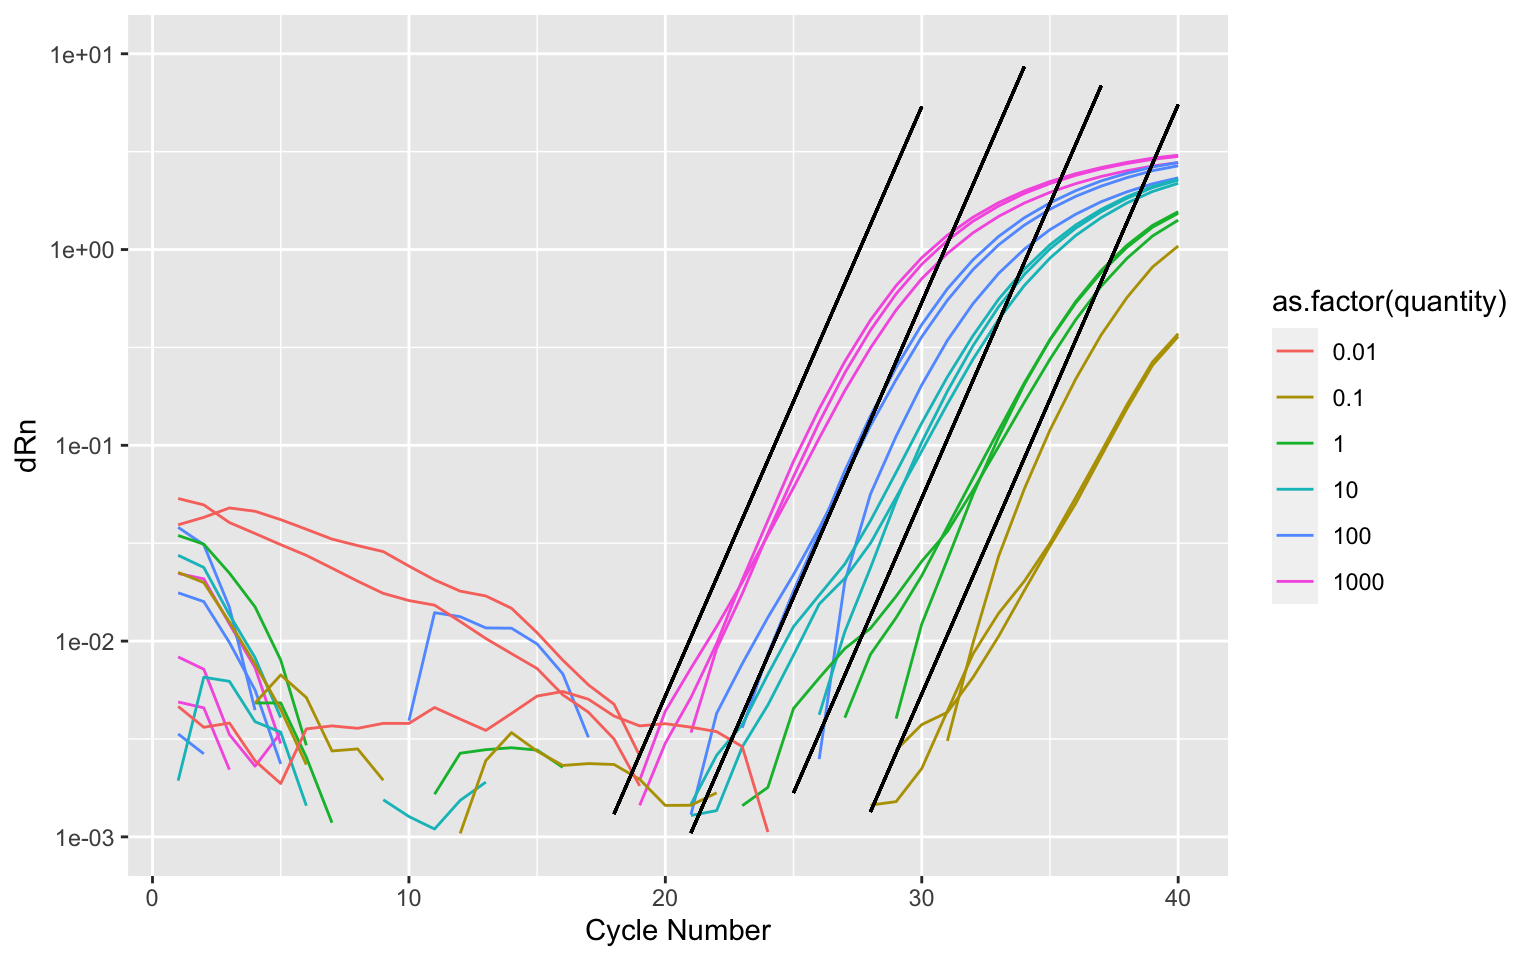
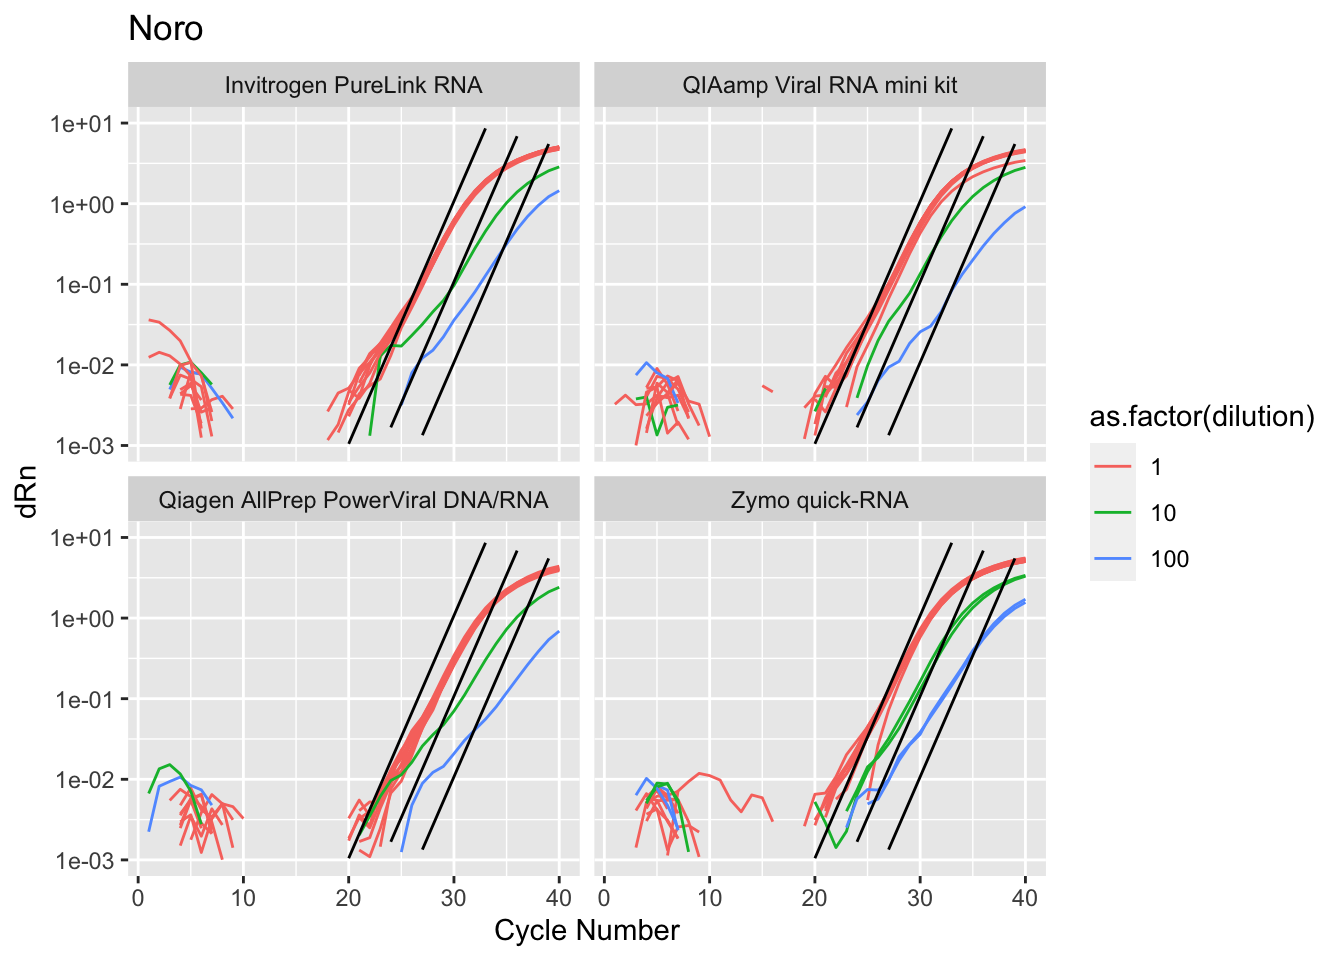
Add rulers to dilution series

Changed region(s): [[0.0, 0.0, 0.9688, 1.0], [0.1562, 0.125, 0.1875, 0.2188], [0.1562, 0.2812, 0.1875, 0.3125]]

diff --git a/docs/notebooks/2023-09-28-qpcr_qc.html b/docs/notebooks/2023-09-28-qpcr_qc.html
@@ -466,31 +466,36 @@ $ FP_sampleID     &lt;lgl&gt; NA, NA, NA, NA, NA, NA, NA, NA, NA, NA, NA, NA, NA
 <h3 class="anchored" data-anchor-id="standard-ruler">Standard ruler</h3>
 <p>Maximum efficiency means doubling every cycle. The standard curve points here represent 10x dilutions. We can compare the amplification curves for the standard curve samples against a standard ruler: a set of idealized curves <span class="math inline">\(y(c) = y_0 2^c\)</span> with <span class="math inline">\(y_0\)</span> spaced <span class="math inline">\(10\times\)</span> apart.</p>
 <div class="cell">
-<div class="sourceCode cell-code" id="cb22"><pre class="sourceCode r code-with-copy"><code class="sourceCode r"><span id="cb22-1"><a href="#cb22-1" aria-hidden="true" tabindex="-1"></a>plot_amp_with_ruler <span class="ot">&lt;-</span> <span class="cf">function</span>(target, y0_from) {</span>
-<span id="cb22-2"><a href="#cb22-2" aria-hidden="true" tabindex="-1"></a>  y0 <span class="ot">&lt;-</span> <span class="dv">10</span><span class="sc">^</span><span class="fu">seq</span>(<span class="at">from =</span> y0_from, <span class="at">by =</span> <span class="sc">-</span><span class="dv">1</span>, <span class="at">length.out =</span> <span class="dv">5</span>)</span>
-<span id="cb22-3"><a href="#cb22-3" aria-hidden="true" tabindex="-1"></a>  ruler <span class="ot">&lt;-</span> <span class="fu">crossing</span>(<span class="st">`</span><span class="at">Cycle Number</span><span class="st">`</span> <span class="ot">=</span> amp_data<span class="sc">$</span><span class="st">`</span><span class="at">Cycle Number</span><span class="st">`</span>, <span class="at">y0 =</span> y0) <span class="sc">|&gt;</span></span>
-<span id="cb22-4"><a href="#cb22-4" aria-hidden="true" tabindex="-1"></a>    <span class="fu">mutate</span>(<span class="at">dRn =</span> y0 <span class="sc">*</span> <span class="dv">2</span><span class="sc">^</span><span class="st">`</span><span class="at">Cycle Number</span><span class="st">`</span>)</span>
-<span id="cb22-5"><a href="#cb22-5" aria-hidden="true" tabindex="-1"></a>  amp_data <span class="sc">|&gt;</span></span>
-<span id="cb22-6"><a href="#cb22-6" aria-hidden="true" tabindex="-1"></a>    <span class="fu">filter</span>(<span class="sc">!</span><span class="fu">is.na</span>(quantity), Target <span class="sc">==</span> target) <span class="sc">|&gt;</span></span>
-<span id="cb22-7"><a href="#cb22-7" aria-hidden="true" tabindex="-1"></a>    <span class="fu">ggplot</span>(<span class="at">mapping =</span> <span class="fu">aes</span>(</span>
-<span id="cb22-8"><a href="#cb22-8" aria-hidden="true" tabindex="-1"></a>      <span class="at">x =</span> <span class="st">`</span><span class="at">Cycle Number</span><span class="st">`</span>,</span>
-<span id="cb22-9"><a href="#cb22-9" aria-hidden="true" tabindex="-1"></a>      <span class="at">y =</span> dRn,</span>
-<span id="cb22-10"><a href="#cb22-10" aria-hidden="true" tabindex="-1"></a>    )) <span class="sc">+</span></span>
-<span id="cb22-11"><a href="#cb22-11" aria-hidden="true" tabindex="-1"></a>    <span class="fu">geom_line</span>(<span class="at">mapping =</span> <span class="fu">aes</span>(</span>
-<span id="cb22-12"><a href="#cb22-12" aria-hidden="true" tabindex="-1"></a>      <span class="at">color =</span> <span class="fu">as.factor</span>(quantity),</span>
-<span id="cb22-13"><a href="#cb22-13" aria-hidden="true" tabindex="-1"></a>      <span class="at">group =</span> <span class="fu">interaction</span>(plate, Well),</span>
-<span id="cb22-14"><a href="#cb22-14" aria-hidden="true" tabindex="-1"></a>    )) <span class="sc">+</span></span>
-<span id="cb22-15"><a href="#cb22-15" aria-hidden="true" tabindex="-1"></a>    <span class="fu">geom_line</span>(</span>
-<span id="cb22-16"><a href="#cb22-16" aria-hidden="true" tabindex="-1"></a>      <span class="at">data =</span> ruler,</span>
-<span id="cb22-17"><a href="#cb22-17" aria-hidden="true" tabindex="-1"></a>      <span class="at">mapping =</span> <span class="fu">aes</span>(<span class="at">group =</span> y0),</span>
-<span id="cb22-18"><a href="#cb22-18" aria-hidden="true" tabindex="-1"></a>      <span class="at">color =</span> <span class="st">"black"</span></span>
-<span id="cb22-19"><a href="#cb22-19" aria-hidden="true" tabindex="-1"></a>    ) <span class="sc">+</span></span>
-<span id="cb22-20"><a href="#cb22-20" aria-hidden="true" tabindex="-1"></a>    <span class="fu">scale_y_log10</span>(<span class="at">limits =</span> <span class="fu">c</span>(<span class="fl">1e-3</span>, <span class="fl">1e1</span>)) <span class="sc">+</span></span>
-<span id="cb22-21"><a href="#cb22-21" aria-hidden="true" tabindex="-1"></a>    <span class="fu">labs</span>(<span class="at">title =</span> target)</span>
-<span id="cb22-22"><a href="#cb22-22" aria-hidden="true" tabindex="-1"></a>}</span></code><button title="Copy to Clipboard" class="code-copy-button"><i class="bi"></i></button></pre></div>
+<div class="sourceCode cell-code" id="cb22"><pre class="sourceCode r code-with-copy"><code class="sourceCode r"><span id="cb22-1"><a href="#cb22-1" aria-hidden="true" tabindex="-1"></a>plot_amp <span class="ot">&lt;-</span> <span class="cf">function</span>(data, color) {</span>
+<span id="cb22-2"><a href="#cb22-2" aria-hidden="true" tabindex="-1"></a>  <span class="fu">ggplot</span>(data, <span class="fu">aes</span>(<span class="at">x =</span> <span class="st">`</span><span class="at">Cycle Number</span><span class="st">`</span>, <span class="at">y =</span> dRn)) <span class="sc">+</span></span>
+<span id="cb22-3"><a href="#cb22-3" aria-hidden="true" tabindex="-1"></a>    <span class="fu">geom_line</span>(<span class="at">mapping =</span> <span class="fu">aes</span>(</span>
+<span id="cb22-4"><a href="#cb22-4" aria-hidden="true" tabindex="-1"></a>      <span class="at">color =</span> <span class="fu">as.factor</span>({{ color }}),</span>
+<span id="cb22-5"><a href="#cb22-5" aria-hidden="true" tabindex="-1"></a>      <span class="at">group =</span> <span class="fu">interaction</span>(plate, Well),</span>
+<span id="cb22-6"><a href="#cb22-6" aria-hidden="true" tabindex="-1"></a>    )) <span class="sc">+</span></span>
+<span id="cb22-7"><a href="#cb22-7" aria-hidden="true" tabindex="-1"></a>    <span class="fu">scale_y_log10</span>(<span class="at">limits =</span> <span class="fu">c</span>(<span class="fl">1e-3</span>, <span class="fl">1e1</span>))</span>
+<span id="cb22-8"><a href="#cb22-8" aria-hidden="true" tabindex="-1"></a>}</span>
+<span id="cb22-9"><a href="#cb22-9" aria-hidden="true" tabindex="-1"></a></span>
+<span id="cb22-10"><a href="#cb22-10" aria-hidden="true" tabindex="-1"></a>ruler <span class="ot">&lt;-</span> <span class="cf">function</span>(y0_from, num_rules) {</span>
+<span id="cb22-11"><a href="#cb22-11" aria-hidden="true" tabindex="-1"></a>  y0 <span class="ot">&lt;-</span> <span class="dv">10</span><span class="sc">^</span><span class="fu">seq</span>(<span class="at">from =</span> y0_from, <span class="at">by =</span> <span class="sc">-</span><span class="dv">1</span>, <span class="at">length.out =</span> num_rules)</span>
+<span id="cb22-12"><a href="#cb22-12" aria-hidden="true" tabindex="-1"></a>  rules <span class="ot">&lt;-</span> <span class="fu">crossing</span>(<span class="st">`</span><span class="at">Cycle Number</span><span class="st">`</span> <span class="ot">=</span> amp_data<span class="sc">$</span><span class="st">`</span><span class="at">Cycle Number</span><span class="st">`</span>, <span class="at">y0 =</span> y0) <span class="sc">|&gt;</span></span>
+<span id="cb22-13"><a href="#cb22-13" aria-hidden="true" tabindex="-1"></a>    <span class="fu">mutate</span>(<span class="at">dRn =</span> y0 <span class="sc">*</span> <span class="dv">2</span><span class="sc">^</span><span class="st">`</span><span class="at">Cycle Number</span><span class="st">`</span>)</span>
+<span id="cb22-14"><a href="#cb22-14" aria-hidden="true" tabindex="-1"></a>  <span class="fu">geom_line</span>(</span>
+<span id="cb22-15"><a href="#cb22-15" aria-hidden="true" tabindex="-1"></a>    <span class="at">data =</span> rules,</span>
+<span id="cb22-16"><a href="#cb22-16" aria-hidden="true" tabindex="-1"></a>    <span class="at">mapping =</span> <span class="fu">aes</span>(<span class="at">group =</span> y0),</span>
+<span id="cb22-17"><a href="#cb22-17" aria-hidden="true" tabindex="-1"></a>    <span class="at">color =</span> <span class="st">"black"</span></span>
+<span id="cb22-18"><a href="#cb22-18" aria-hidden="true" tabindex="-1"></a>  )</span>
+<span id="cb22-19"><a href="#cb22-19" aria-hidden="true" tabindex="-1"></a>}</span>
+<span id="cb22-20"><a href="#cb22-20" aria-hidden="true" tabindex="-1"></a></span>
+<span id="cb22-21"><a href="#cb22-21" aria-hidden="true" tabindex="-1"></a>plot_amp_with_ruler <span class="ot">&lt;-</span> <span class="cf">function</span>(target, y0_from, num_rules) {</span>
+<span id="cb22-22"><a href="#cb22-22" aria-hidden="true" tabindex="-1"></a>  amp_data <span class="sc">|&gt;</span></span>
+<span id="cb22-23"><a href="#cb22-23" aria-hidden="true" tabindex="-1"></a>    <span class="fu">filter</span>(<span class="sc">!</span><span class="fu">is.na</span>(quantity), Target <span class="sc">==</span> target) <span class="sc">|&gt;</span></span>
+<span id="cb22-24"><a href="#cb22-24" aria-hidden="true" tabindex="-1"></a>    <span class="fu">plot_amp</span>(quantity) <span class="sc">+</span></span>
+<span id="cb22-25"><a href="#cb22-25" aria-hidden="true" tabindex="-1"></a>    <span class="fu">ruler</span>(y0_from, num_rules) <span class="sc">+</span></span>
+<span id="cb22-26"><a href="#cb22-26" aria-hidden="true" tabindex="-1"></a>    <span class="fu">labs</span>(<span class="at">title =</span> target)</span>
+<span id="cb22-27"><a href="#cb22-27" aria-hidden="true" tabindex="-1"></a>}</span></code><button title="Copy to Clipboard" class="code-copy-button"><i class="bi"></i></button></pre></div>
 </div>
 <div class="cell">
-<div class="sourceCode cell-code" id="cb23"><pre class="sourceCode r code-with-copy"><code class="sourceCode r"><span id="cb23-1"><a href="#cb23-1" aria-hidden="true" tabindex="-1"></a><span class="fu">plot_amp_with_ruler</span>(<span class="st">"16S"</span>, <span class="sc">-</span><span class="dv">6</span>)</span></code><button title="Copy to Clipboard" class="code-copy-button"><i class="bi"></i></button></pre></div>
+<div class="sourceCode cell-code" id="cb23"><pre class="sourceCode r code-with-copy"><code class="sourceCode r"><span id="cb23-1"><a href="#cb23-1" aria-hidden="true" tabindex="-1"></a><span class="fu">plot_amp_with_ruler</span>(<span class="st">"16S"</span>, <span class="sc">-</span><span class="dv">6</span>, <span class="dv">5</span>)</span></code><button title="Copy to Clipboard" class="code-copy-button"><i class="bi"></i></button></pre></div>
 <div class="cell-output cell-output-stderr">
 <pre><code>Warning in self$trans$transform(x): NaNs produced</code></pre>
 </div>
@@ -506,7 +511,7 @@ $ FP_sampleID     &lt;lgl&gt; NA, NA, NA, NA, NA, NA, NA, NA, NA, NA, NA, NA, NA
 <div class="cell-output-display">
 <p><img src="2023-09-28-qpcr_qc_files/figure-html/unnamed-chunk-11-1.png" class="img-fluid" width="672"></p>
 </div>
-<div class="sourceCode cell-code" id="cb28"><pre class="sourceCode r code-with-copy"><code class="sourceCode r"><span id="cb28-1"><a href="#cb28-1" aria-hidden="true" tabindex="-1"></a><span class="fu">plot_amp_with_ruler</span>(<span class="st">"CrA"</span>, <span class="sc">-</span><span class="dv">5</span>)</span></code><button title="Copy to Clipboard" class="code-copy-button"><i class="bi"></i></button></pre></div>
+<div class="sourceCode cell-code" id="cb28"><pre class="sourceCode r code-with-copy"><code class="sourceCode r"><span id="cb28-1"><a href="#cb28-1" aria-hidden="true" tabindex="-1"></a><span class="fu">plot_amp_with_ruler</span>(<span class="st">"CrA"</span>, <span class="sc">-</span><span class="dv">5</span>, <span class="dv">5</span>)</span></code><button title="Copy to Clipboard" class="code-copy-button"><i class="bi"></i></button></pre></div>
 <div class="cell-output cell-output-stderr">
 <pre><code>Warning in self$trans$transform(x): NaNs produced</code></pre>
 </div>
@@ -522,7 +527,7 @@ $ FP_sampleID     &lt;lgl&gt; NA, NA, NA, NA, NA, NA, NA, NA, NA, NA, NA, NA, NA
 <div class="cell-output-display">
 <p><img src="2023-09-28-qpcr_qc_files/figure-html/unnamed-chunk-11-2.png" class="img-fluid" width="672"></p>
 </div>
-<div class="sourceCode cell-code" id="cb33"><pre class="sourceCode r code-with-copy"><code class="sourceCode r"><span id="cb33-1"><a href="#cb33-1" aria-hidden="true" tabindex="-1"></a><span class="fu">plot_amp_with_ruler</span>(<span class="st">"Noro"</span>, <span class="sc">-</span><span class="dv">8</span>)</span></code><button title="Copy to Clipboard" class="code-copy-button"><i class="bi"></i></button></pre></div>
+<div class="sourceCode cell-code" id="cb33"><pre class="sourceCode r code-with-copy"><code class="sourceCode r"><span id="cb33-1"><a href="#cb33-1" aria-hidden="true" tabindex="-1"></a><span class="fu">plot_amp_with_ruler</span>(<span class="st">"Noro"</span>, <span class="sc">-</span><span class="dv">8</span>, <span class="dv">5</span>)</span></code><button title="Copy to Clipboard" class="code-copy-button"><i class="bi"></i></button></pre></div>
 <div class="cell-output cell-output-stderr">
 <pre><code>Warning in self$trans$transform(x): NaNs produced</code></pre>
 </div>
@@ -538,7 +543,7 @@ $ FP_sampleID     &lt;lgl&gt; NA, NA, NA, NA, NA, NA, NA, NA, NA, NA, NA, NA, NA
 <div class="cell-output-display">
 <p><img src="2023-09-28-qpcr_qc_files/figure-html/unnamed-chunk-11-3.png" class="img-fluid" width="672"></p>
 </div>
-<div class="sourceCode cell-code" id="cb38"><pre class="sourceCode r code-with-copy"><code class="sourceCode r"><span id="cb38-1"><a href="#cb38-1" aria-hidden="true" tabindex="-1"></a><span class="fu">plot_amp_with_ruler</span>(<span class="st">"Cov2"</span>, <span class="sc">-</span><span class="dv">9</span>)</span></code><button title="Copy to Clipboard" class="code-copy-button"><i class="bi"></i></button></pre></div>
+<div class="sourceCode cell-code" id="cb38"><pre class="sourceCode r code-with-copy"><code class="sourceCode r"><span id="cb38-1"><a href="#cb38-1" aria-hidden="true" tabindex="-1"></a><span class="fu">plot_amp_with_ruler</span>(<span class="st">"Cov2"</span>, <span class="sc">-</span><span class="dv">9</span>, <span class="dv">5</span>)</span></code><button title="Copy to Clipboard" class="code-copy-button"><i class="bi"></i></button></pre></div>
 <div class="cell-output cell-output-stderr">
 <pre><code>Warning in self$trans$transform(x): NaNs produced</code></pre>
 </div>
@@ -553,6 +558,58 @@ $ FP_sampleID     &lt;lgl&gt; NA, NA, NA, NA, NA, NA, NA, NA, NA, NA, NA, NA, NA
 </div>
 <div class="cell-output-display">
 <p><img src="2023-09-28-qpcr_qc_files/figure-html/unnamed-chunk-11-4.png" class="img-fluid" width="672"></p>
+</div>
+</div>
+<div class="cell">
+<div class="sourceCode cell-code" id="cb43"><pre class="sourceCode r code-with-copy"><code class="sourceCode r"><span id="cb43-1"><a href="#cb43-1" aria-hidden="true" tabindex="-1"></a>dilution_kits <span class="ot">&lt;-</span> <span class="fu">c</span>(</span>
+<span id="cb43-2"><a href="#cb43-2" aria-hidden="true" tabindex="-1"></a>  <span class="st">"Invitrogen PureLink RNA"</span>,</span>
+<span id="cb43-3"><a href="#cb43-3" aria-hidden="true" tabindex="-1"></a>  <span class="st">"QIAamp Viral RNA mini kit"</span>,</span>
+<span id="cb43-4"><a href="#cb43-4" aria-hidden="true" tabindex="-1"></a>  <span class="st">"Qiagen AllPrep PowerViral DNA/RNA"</span>,</span>
+<span id="cb43-5"><a href="#cb43-5" aria-hidden="true" tabindex="-1"></a>  <span class="st">"Zymo quick-RNA"</span></span>
+<span id="cb43-6"><a href="#cb43-6" aria-hidden="true" tabindex="-1"></a>)</span>
+<span id="cb43-7"><a href="#cb43-7" aria-hidden="true" tabindex="-1"></a>target <span class="ot">&lt;-</span> <span class="st">"Noro"</span></span>
+<span id="cb43-8"><a href="#cb43-8" aria-hidden="true" tabindex="-1"></a>amp_data <span class="sc">|&gt;</span></span>
+<span id="cb43-9"><a href="#cb43-9" aria-hidden="true" tabindex="-1"></a>  <span class="fu">filter</span>(Target <span class="sc">==</span> target, <span class="fu">is.element</span>(Extraction_kit, dilution_kits)) <span class="sc">|&gt;</span></span>
+<span id="cb43-10"><a href="#cb43-10" aria-hidden="true" tabindex="-1"></a>  <span class="fu">plot_amp</span>(dilution) <span class="sc">+</span></span>
+<span id="cb43-11"><a href="#cb43-11" aria-hidden="true" tabindex="-1"></a>  <span class="fu">ruler</span>(<span class="sc">-</span><span class="dv">9</span>, <span class="dv">3</span>) <span class="sc">+</span></span>
+<span id="cb43-12"><a href="#cb43-12" aria-hidden="true" tabindex="-1"></a>  <span class="fu">facet_wrap</span>(<span class="sc">~</span>Extraction_kit) <span class="sc">+</span></span>
+<span id="cb43-13"><a href="#cb43-13" aria-hidden="true" tabindex="-1"></a>  <span class="fu">labs</span>(<span class="at">title =</span> target)</span></code><button title="Copy to Clipboard" class="code-copy-button"><i class="bi"></i></button></pre></div>
+<div class="cell-output cell-output-stderr">
+<pre><code>Warning in self$trans$transform(x): NaNs produced</code></pre>
+</div>
+<div class="cell-output cell-output-stderr">
+<pre><code>Warning: Transformation introduced infinite values in continuous y-axis</code></pre>
+</div>
+<div class="cell-output cell-output-stderr">
+<pre><code>Warning: Removed 118 rows containing missing values (`geom_line()`).</code></pre>
+</div>
+<div class="cell-output cell-output-stderr">
+<pre><code>Warning: Removed 80 rows containing missing values (`geom_line()`).</code></pre>
+</div>
+<div class="cell-output-display">
+<p><img src="2023-09-28-qpcr_qc_files/figure-html/unnamed-chunk-12-1.png" class="img-fluid" width="672"></p>
+</div>
+<div class="sourceCode cell-code" id="cb48"><pre class="sourceCode r code-with-copy"><code class="sourceCode r"><span id="cb48-1"><a href="#cb48-1" aria-hidden="true" tabindex="-1"></a>target <span class="ot">&lt;-</span> <span class="st">"CrA"</span></span>
+<span id="cb48-2"><a href="#cb48-2" aria-hidden="true" tabindex="-1"></a>amp_data <span class="sc">|&gt;</span></span>
+<span id="cb48-3"><a href="#cb48-3" aria-hidden="true" tabindex="-1"></a>  <span class="fu">filter</span>(Target <span class="sc">==</span> target, <span class="fu">is.element</span>(Extraction_kit, dilution_kits)) <span class="sc">|&gt;</span></span>
+<span id="cb48-4"><a href="#cb48-4" aria-hidden="true" tabindex="-1"></a>  <span class="fu">plot_amp</span>(dilution) <span class="sc">+</span></span>
+<span id="cb48-5"><a href="#cb48-5" aria-hidden="true" tabindex="-1"></a>  <span class="fu">ruler</span>(<span class="sc">-</span><span class="dv">7</span>, <span class="dv">3</span>) <span class="sc">+</span></span>
+<span id="cb48-6"><a href="#cb48-6" aria-hidden="true" tabindex="-1"></a>  <span class="fu">facet_wrap</span>(<span class="sc">~</span>Extraction_kit) <span class="sc">+</span></span>
+<span id="cb48-7"><a href="#cb48-7" aria-hidden="true" tabindex="-1"></a>  <span class="fu">labs</span>(<span class="at">title =</span> target)</span></code><button title="Copy to Clipboard" class="code-copy-button"><i class="bi"></i></button></pre></div>
+<div class="cell-output cell-output-stderr">
+<pre><code>Warning in self$trans$transform(x): NaNs produced</code></pre>
+</div>
+<div class="cell-output cell-output-stderr">
+<pre><code>Warning: Transformation introduced infinite values in continuous y-axis</code></pre>
+</div>
+<div class="cell-output cell-output-stderr">
+<pre><code>Warning: Removed 76 rows containing missing values (`geom_line()`).</code></pre>
+</div>
+<div class="cell-output cell-output-stderr">
+<pre><code>Warning: Removed 80 rows containing missing values (`geom_line()`).</code></pre>
+</div>
+<div class="cell-output-display">
+<p><img src="2023-09-28-qpcr_qc_files/figure-html/unnamed-chunk-12-2.png" class="img-fluid" width="672"></p>
 </div>
 </div>
 

diff --git a/docs/index.html b/docs/index.html
@@ -145,7 +145,7 @@ ul.task-list li input[type="checkbox"] {
 
 <div class="quarto-listing quarto-listing-container-default" id="listing-listing">
 <div class="list quarto-listing-default">
-<div class="quarto-post image-right" data-index="0" data-listing-date-sort="1695873600000" data-listing-file-modified-sort="1696019887579" data-listing-date-modified-sort="NaN" data-listing-reading-time-sort="5">
+<div class="quarto-post image-right" data-index="0" data-listing-date-sort="1695873600000" data-listing-file-modified-sort="1696343794265" data-listing-date-modified-sort="NaN" data-listing-reading-time-sort="5">
 <div class="thumbnail">
 <p><a href="./notebooks/2023-09-28-qpcr_qc.html"> <p class="card-img-top"><img src="notebooks/2023-09-28-qpcr_qc_files/figure-html/unnamed-chunk-8-1.png"  class="thumbnail-image card-img"/></p> </a></p>
 </div>
